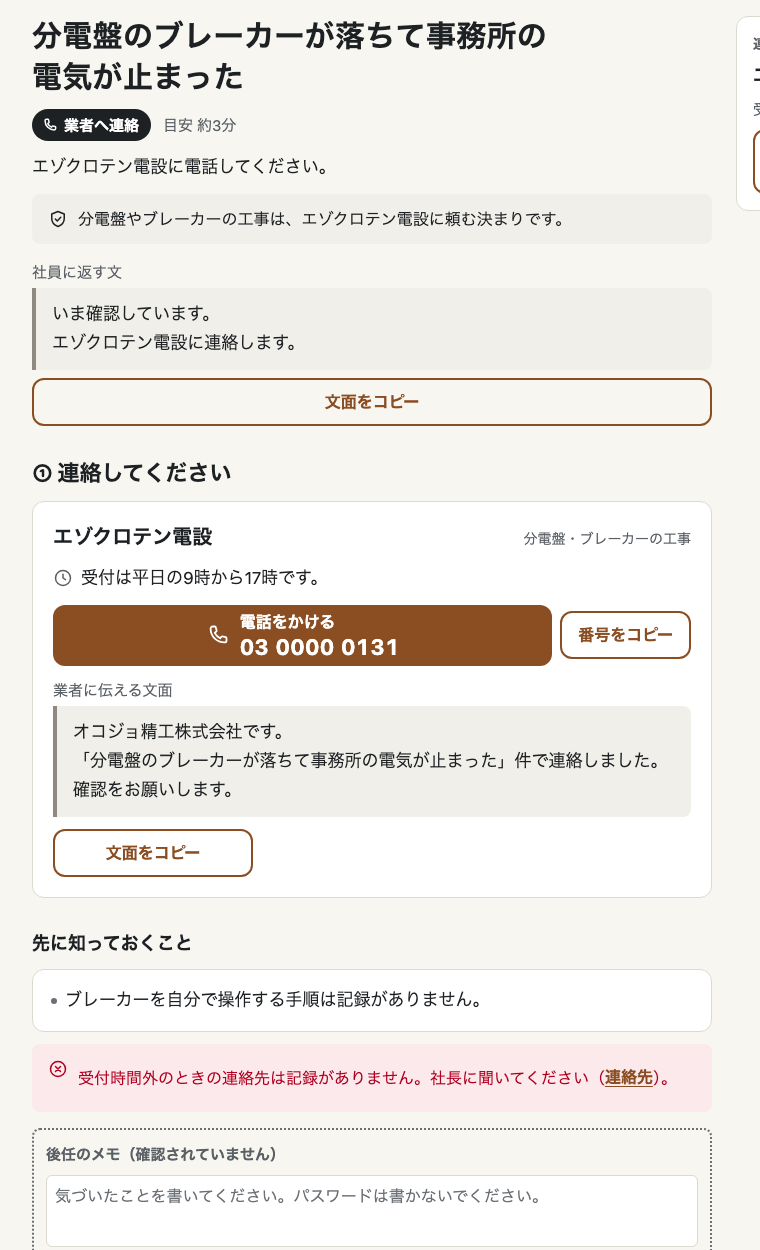
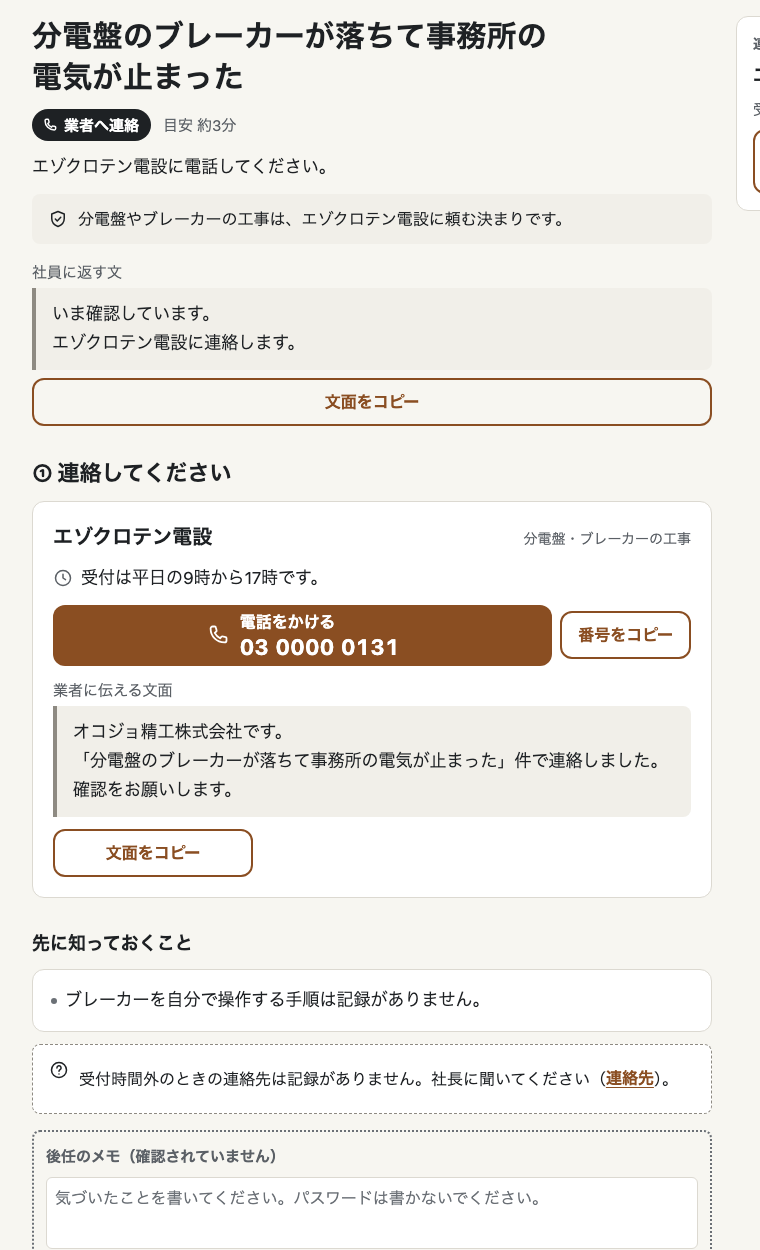
「記録がありません」を注意として読める見た目にし、「挿す」の表記を画面で「差す」にそろえる（holdout の前の最後の製品の変更）
本人の決定（公開前の採点で残った指摘のうち 2 つ）：
- 「記録がありません」の帯・注・電話番号の記録なしは、赤い × ではなく、ふつうの文字色、点線の枠、？ の記号（band-norecord）。文は変えない。PC 用とスマホ用。撮影の検査の色の決まりに足し、例外の帯と記録なしの帯は出ているページで確かめる
- 「挿す」「挿し直す」などの動詞は、画面に出すとき（forDisplay）に「差す」にそろえる。記録（manual.json）の文、手順部品、名詞（挿入）は変えない。絵の矢印の向きと文字も同じ。手順部品に「挿」はなかった
- 保存した 3 社の出力、サンプル、更新の通しの出力を API なしで描き直し、撮影の検査を通した（キノドテン建設は、見本の形の条件の 2 種類が、直す前と同じく満たせない）。README の画像を出し直した
- holdout の数と件数だけを取り出す道具（eval/holdout-report.mjs）を足す

Claude-Session: https://claude.ai/code/session_01RiFc1jbirUEDMBzWsSjnse

diff --git a/samples/okojo/manual.html b/samples/okojo/manual.html
@@ -870,6 +870,11 @@ background: var(--warn-bg);
 color: var(--danger-fg);
 background: var(--danger-bg);
 }
+.band-norecord {
+color: var(--ink);
+background: var(--card);
+border: 1.5px dashed var(--line-strong);
+}
 .first {
 padding: 20px;
 background: var(--card);
@@ -2371,7 +2376,7 @@ content: "";
 <li class="step"><label class="tap"><input type="checkbox" data-check="T2:STM-111"><span class="step-n">3</span><span class="step-body is-short">「PC」の画面で、会社の情報の表の<span class="nb">ドライブ</span>の帯<span class="nb">グラフ</span>を見てください。</span><span class="step-box"><svg class="icon" role="presentation"><use href="#i-check"/></svg></span></label></li>
 </ol>
 <p class="band band-exception"><svg class="icon" role="presentation"><use href="#i-cross"/></svg><span>帯が赤ければ、空きがほとんどありません。</span></p>
-<p class="band band-exception"><svg class="icon" role="presentation"><use href="#i-cross"/></svg><span>空きがほとんどないときの対応は記録がありません。工場の <span class="nb">CAD</span> 担当者に聞いてください（<a class="tap text-link" href="#tab-contacts">連絡先</a>）。</span></p>
+<p class="band band-norecord"><svg class="icon" role="presentation"><use href="#i-help"/></svg><span>空きがほとんどないときの対応は記録がありません。工場の <span class="nb">CAD</span> 担当者に聞いてください（<a class="tap text-link" href="#tab-contacts">連絡先</a>）。</span></p>
 <button type="button" class="tap js-only btn-reset" data-reset>チェックをすべて外す</button>
 </div>
 <div class="part part-contact">
@@ -2501,7 +2506,7 @@ content: "";
 <h2 class="symptom-title" tabindex="-1">工場の Wi-Fi が切れる</h2>
 <div class="verdict"><span class="badge" data-badge="self" title="自分で直せる"><svg class="icon" role="presentation"><use href="#i-check"/></svg><span class="badge-text">自分で直せる</span></span><span class="eta">目安 約3分</span></div>
 <p class="verdict-text">工場の <span class="nb">AP</span> を再起動して、自分で直します。</p>
-<p class="band band-safe"><svg class="icon" role="presentation"><use href="#i-shield"/></svg><span>電源<span class="nb">アダプター</span>を抜いて挿し直すだけの再起動で、後任が自分でやってよい作業です。</span></p>
+<p class="band band-safe"><svg class="icon" role="presentation"><use href="#i-shield"/></svg><span>電源<span class="nb">アダプター</span>を抜いて差し直すだけの再起動で、後任が自分でやってよい作業です。</span></p>
 <section class="first">
 <h3 class="first-kicker">① まずこれだけ <span class="eta">1分</span></h3>
 <div class="first-steps is-many">
@@ -2523,7 +2528,7 @@ content: "";
 <li>工場の Wi-Fi が切れるのは、夏の熱で工場の <span class="nb">AP</span> が止まることが多いです。</li>
 <li>工場の <span class="nb">AP</span> は、工場の入口に近い柱の上にあります。</li>
 </ul></div>
-<p class="band band-exception"><svg class="icon" role="presentation"><use href="#i-cross"/></svg><span><span class="nb">AP</span> を再起動しても工場の Wi-Fi が切れるときの対応は、記録がありません。工場の <span class="nb">CAD</span> 担当者に聞いてください（<a class="tap text-link" href="#tab-contacts">連絡先</a>）。</span></p>
+<p class="band band-norecord"><svg class="icon" role="presentation"><use href="#i-help"/></svg><span><span class="nb">AP</span> を再起動しても工場の Wi-Fi が切れるときの対応は、記録がありません。工場の <span class="nb">CAD</span> 担当者に聞いてください（<a class="tap text-link" href="#tab-contacts">連絡先</a>）。</span></p>
 <p class="tab-link"><a class="tap text-link" href="#tab-contacts">連絡先の一覧を見る</a></p>
 <div class="memo is-empty" data-memo="T4" data-memo-name="工場の Wi-Fi が切れる"></div>
 <p class="memo-nojs">メモは PC 版で書けます</p>
@@ -2625,7 +2630,7 @@ content: "";
 <ol class="steps" role="list">
 <li class="step"><label class="tap"><input type="checkbox" data-check="T6:STM-152"><span class="step-n">1</span><span class="step-body is-short"><span class="nb">カワウソシステムサービス</span>に、古い<span class="nb">世代</span>の削除を<span class="nb">スポット</span>（有償）で依頼してください。</span><span class="step-box"><svg class="icon" role="presentation"><use href="#i-check"/></svg></span></label><p class="step-terms"><a class="tap" href="#g-T6-21">システムとは？</a><a class="tap" href="#g-T6-7">世代とは？</a></p></li>
 </ol>
-<p class="band band-exception"><svg class="icon" role="presentation"><use href="#i-cross"/></svg><span>本文に容量不足以外の理由が書かれていたら、記録がありません。総務課に聞いてください（<a class="tap text-link" href="#tab-contacts">連絡先</a>）。</span></p>
+<p class="band band-norecord"><svg class="icon" role="presentation"><use href="#i-help"/></svg><span>本文に容量不足以外の理由が書かれていたら、記録がありません。総務課に聞いてください（<a class="tap text-link" href="#tab-contacts">連絡先</a>）。</span></p>
 <button type="button" class="tap js-only btn-reset" data-reset>チェックをすべて外す</button>
 </div>
 <div class="part part-contact">
@@ -2702,7 +2707,7 @@ content: "";
 <li class="step"><label class="tap"><input type="checkbox" data-check="T7:STM-162"><span class="step-n">1</span><span class="step-body is-short">総務課と社長に、すぐ連絡してください。</span><span class="step-box"><svg class="icon" role="presentation"><use href="#i-check"/></svg></span></label></li>
 </ol>
 <p class="goal"><svg class="icon" role="presentation"><use href="#i-check"/></svg><span>画面の右下の<span class="nb">ネットワーク</span>の<span class="nb">マーク</span>に×が付けば、切れています。</span></p>
-<p class="band band-exception"><svg class="icon" role="presentation"><use href="#i-cross"/></svg><span>社員から不審な<span class="nb">メール</span>を知らされたあとの対応は記録がありません。総務課に聞いてください（<a class="tap text-link" href="#tab-contacts">連絡先</a>）。</span></p>
+<p class="band band-norecord"><svg class="icon" role="presentation"><use href="#i-help"/></svg><span>社員から不審な<span class="nb">メール</span>を知らされたあとの対応は記録がありません。総務課に聞いてください（<a class="tap text-link" href="#tab-contacts">連絡先</a>）。</span></p>
 <button type="button" class="tap js-only btn-reset" data-reset>チェックをすべて外す</button>
 </div>
 <div class="part part-contact">
@@ -2883,7 +2888,7 @@ content: "";
 </ol>
 <p class="goal"><svg class="icon" role="presentation"><use href="#i-check"/></svg><span>総務の PC で共有<span class="nb">フォルダ</span>が開ければ、戻っています。</span></p>
 <p class="band band-exception"><svg class="icon" role="presentation"><use href="#i-cross"/></svg><span><span class="nb">サーバー</span>が動かないときは、<span class="nb">イイズナソフト</span>に連絡してください。</span></p>
-<p class="band band-exception"><svg class="icon" role="presentation"><use href="#i-cross"/></svg><span><span class="nb">NAS</span> が動かないときの対応は記録がありません。社長に聞いてください（<a class="tap text-link" href="#tab-contacts">連絡先</a>）。</span></p>
+<p class="band band-norecord"><svg class="icon" role="presentation"><use href="#i-help"/></svg><span><span class="nb">NAS</span> が動かないときの対応は記録がありません。社長に聞いてください（<a class="tap text-link" href="#tab-contacts">連絡先</a>）。</span></p>
 <button type="button" class="tap js-only btn-reset" data-reset>チェックをすべて外す</button>
 </div>
 <div class="part part-contact">

diff --git a/samples/okojo/phone/01 自分で直せる 工場の Wi-Fi が切れる.html b/samples/okojo/phone/01 自分で直せる 工場の Wi-Fi が切れる.html
@@ -107,6 +107,8 @@ h3 { margin-top: var(--s4); font-size: 17px; }
 .step-figure { display: block; width: 100%; max-width: 320px; height: auto; margin-top: var(--s2); color: var(--ink); }
 .goal { margin-top: var(--s3); padding: var(--s2) var(--s3); color: var(--ok-fg); background: var(--ok-bg); border-radius: 8px; }
 .band { margin-top: var(--s3); padding: var(--s2) var(--s3); background: var(--card-2); border-radius: 8px; }
+.band-norecord { display: flex; gap: var(--s2); background: var(--card); border: 1.5px dashed var(--line-strong); }
+.band-norecord svg { flex: none; width: 20px; height: 20px; margin-top: 4px; fill: none; stroke: currentColor; stroke-width: 2; stroke-linecap: round; stroke-linejoin: round; }
 .notes, .phone-steps { padding-left: 1.5em; }
 .notes li, .phone-steps li { margin-top: var(--s2); }
 .step-note { font-size: 15px; color: var(--ink-2); }
@@ -122,7 +124,7 @@ code, kbd { font-family: ui-monospace, monospace; font-size: .95em; }
 .tel > span + span { margin-left: .3em; }
 .num { margin-top: var(--s2); font-size: 22px; font-weight: 700; line-height: 1.3; letter-spacing: .02em; }
 .note { margin-top: var(--s1); font-size: 15px; color: var(--ink-2); }
-.no-phone { margin-top: var(--s2); font-weight: 700; color: var(--danger-fg); }
+.no-phone { font-weight: 700; }
 .label { margin-top: var(--s3); font-size: 15px; font-weight: 700; }
 .contact-hours { display: flex; gap: var(--s2); align-items: flex-start; }
 .contact-hours svg { flex: none; width: 20px; height: 20px; margin-top: 4px; fill: none; stroke: currentColor; stroke-width: 2; stroke-linecap: round; stroke-linejoin: round; color: var(--ink-2); }
@@ -139,7 +141,7 @@ code, kbd { font-family: ui-monospace, monospace; font-size: .95em; }
 <h1>工場の Wi-Fi が切れる</h1>
 <p class="verdict"><span class="badge" data-badge="self"><svg viewBox="0 0 24 24" role="presentation"><path d="M5 12.5l4.5 4.5L19 7.5"/></svg><span>自分で直せる</span></span><span>目安 約3分</span></p>
 <p class="verdict-text">工場の <span class="nb">AP</span> を再起動して、自分で直します。</p>
-<p class="safe">電源<span class="nb">アダプター</span>を抜いて挿し直すだけの再起動で、後任が自分でやってよい作業です。</p>
+<p class="safe">電源<span class="nb">アダプター</span>を抜いて差し直すだけの再起動で、後任が自分でやってよい作業です。</p>
 <section class="part first">
 <h2>① まずこれだけ</h2>
 <p class="first-body">工場の入口に近い柱の上にある <span class="nb">AP</span> の、電源<span class="nb">アダプター</span>を抜いてください。<svg class="step-figure" viewBox="0 0 344 140" fill="none" stroke="currentColor" stroke-width="2" role="img" aria-label="工場の入口に近い柱の上にある AP の、電源アダプターを抜いてください。の図"><g transform="translate(10 6)"><rect x="12" y="52" width="76" height="30" rx="6"/><path d="M30 52L24 20M70 52L76 20"/><path d="M26 67H32M40 67H46M54 67H60" stroke-width="3" stroke-linecap="round"/></g><text x="60" y="128" font-size="14" font-weight="700" fill="currentColor" stroke="none" text-anchor="middle">AP</text><g transform="translate(146 6)"><rect x="24" y="36" width="30" height="28" rx="6"/><rect x="8" y="41" width="16" height="5" rx="1" fill="currentColor"/><rect x="8" y="54" width="16" height="5" rx="1" fill="currentColor"/><path d="M54 50C72 50 70 78 92 78"/></g><text x="196" y="128" font-size="14" font-weight="700" fill="currentColor" stroke="none" text-anchor="middle">電源アダプター</text><g transform="translate(254 6) scale(0.8 1)"><path d="M12 50H82M66 34L84 50L66 66" stroke-width="4" stroke-linecap="round" stroke-linejoin="round" style="stroke:var(--accent)"/></g><text x="294" y="128" font-size="14" font-weight="700" fill="currentColor" stroke="none" text-anchor="middle">抜く</text></svg></p>
@@ -160,7 +162,7 @@ code, kbd { font-family: ui-monospace, monospace; font-size: .95em; }
 <li>工場の <span class="nb">AP</span> は、工場の入口に近い柱の上にあります。</li>
 </ul>
 </section>
-<p class="band"><span class="nb">AP</span> を再起動しても工場の Wi-Fi が切れるときの対応は、記録がありません。工場の <span class="nb">CAD</span> 担当者に聞いてください（連絡先）。</p>
+<p class="band band-norecord"><svg viewBox="0 0 24 24" role="presentation"><circle cx="12" cy="12" r="9"/><path d="M9.5 9.5a2.5 2.5 0 1 1 3.6 2.2c-.8.4-1.1 1-1.1 1.8M12 16.8v.01"/></svg><span><span class="nb">AP</span> を再起動しても工場の Wi-Fi が切れるときの対応は、記録がありません。工場の <span class="nb">CAD</span> 担当者に聞いてください（連絡先）。</span></p>
 <section class="part">
 <h2>連絡先</h2>
 <p>連絡先は、フォルダの中の「00 連絡先」を開いてください。</p>

diff --git a/samples/okojo/phone/08 社内で相談 不審なメールが届いた・感染や情報漏えいが疑われる.html b/samples/okojo/phone/08 社内で相談 不審なメールが届いた・感染や情報漏えいが疑われる.html
@@ -107,6 +107,8 @@ h3 { margin-top: var(--s4); font-size: 17px; }
 .step-figure { display: block; width: 100%; max-width: 320px; height: auto; margin-top: var(--s2); color: var(--ink); }
 .goal { margin-top: var(--s3); padding: var(--s2) var(--s3); color: var(--ok-fg); background: var(--ok-bg); border-radius: 8px; }
 .band { margin-top: var(--s3); padding: var(--s2) var(--s3); background: var(--card-2); border-radius: 8px; }
+.band-norecord { display: flex; gap: var(--s2); background: var(--card); border: 1.5px dashed var(--line-strong); }
+.band-norecord svg { flex: none; width: 20px; height: 20px; margin-top: 4px; fill: none; stroke: currentColor; stroke-width: 2; stroke-linecap: round; stroke-linejoin: round; }
 .notes, .phone-steps { padding-left: 1.5em; }
 .notes li, .phone-steps li { margin-top: var(--s2); }
 .step-note { font-size: 15px; color: var(--ink-2); }
@@ -122,7 +124,7 @@ code, kbd { font-family: ui-monospace, monospace; font-size: .95em; }
 .tel > span + span { margin-left: .3em; }
 .num { margin-top: var(--s2); font-size: 22px; font-weight: 700; line-height: 1.3; letter-spacing: .02em; }
 .note { margin-top: var(--s1); font-size: 15px; color: var(--ink-2); }
-.no-phone { margin-top: var(--s2); font-weight: 700; color: var(--danger-fg); }
+.no-phone { font-weight: 700; }
 .label { margin-top: var(--s3); font-size: 15px; font-weight: 700; }
 .contact-hours { display: flex; gap: var(--s2); align-items: flex-start; }
 .contact-hours svg { flex: none; width: 20px; height: 20px; margin-top: 4px; fill: none; stroke: currentColor; stroke-width: 2; stroke-linecap: round; stroke-linejoin: round; color: var(--ink-2); }
@@ -166,7 +168,7 @@ code, kbd { font-family: ui-monospace, monospace; font-size: .95em; }
 <li>総務課と社長に、すぐ連絡してください。</li>
 </ol>
 <p class="goal">画面の右下の<span class="nb">ネットワーク</span>の<span class="nb">マーク</span>に×が付けば、切れています。</p>
-<p class="band">社員から不審な<span class="nb">メール</span>を知らされたあとの対応は記録がありません。総務課に聞いてください（連絡先）。</p>
+<p class="band band-norecord"><svg viewBox="0 0 24 24" role="presentation"><circle cx="12" cy="12" r="9"/><path d="M9.5 9.5a2.5 2.5 0 1 1 3.6 2.2c-.8.4-1.1 1-1.1 1.8M12 16.8v.01"/></svg><span>社員から不審な<span class="nb">メール</span>を知らされたあとの対応は記録がありません。総務課に聞いてください（連絡先）。</span></p>
 </section>
 <section class="part">
 <h2>③ それでもだめなら</h2>

diff --git a/samples/okojo/phone/12 自分で直せる 停電のあと NAS やサーバーが動かない.html b/samples/okojo/phone/12 自分で直せる 停電のあと NAS やサーバーが動かない.html
@@ -107,6 +107,8 @@ h3 { margin-top: var(--s4); font-size: 17px; }
 .step-figure { display: block; width: 100%; max-width: 320px; height: auto; margin-top: var(--s2); color: var(--ink); }
 .goal { margin-top: var(--s3); padding: var(--s2) var(--s3); color: var(--ok-fg); background: var(--ok-bg); border-radius: 8px; }
 .band { margin-top: var(--s3); padding: var(--s2) var(--s3); background: var(--card-2); border-radius: 8px; }
+.band-norecord { display: flex; gap: var(--s2); background: var(--card); border: 1.5px dashed var(--line-strong); }
+.band-norecord svg { flex: none; width: 20px; height: 20px; margin-top: 4px; fill: none; stroke: currentColor; stroke-width: 2; stroke-linecap: round; stroke-linejoin: round; }
 .notes, .phone-steps { padding-left: 1.5em; }
 .notes li, .phone-steps li { margin-top: var(--s2); }
 .step-note { font-size: 15px; color: var(--ink-2); }
@@ -122,7 +124,7 @@ code, kbd { font-family: ui-monospace, monospace; font-size: .95em; }
 .tel > span + span { margin-left: .3em; }
 .num { margin-top: var(--s2); font-size: 22px; font-weight: 700; line-height: 1.3; letter-spacing: .02em; }
 .note { margin-top: var(--s1); font-size: 15px; color: var(--ink-2); }
-.no-phone { margin-top: var(--s2); font-weight: 700; color: var(--danger-fg); }
+.no-phone { font-weight: 700; }
 .label { margin-top: var(--s3); font-size: 15px; font-weight: 700; }
 .contact-hours { display: flex; gap: var(--s2); align-items: flex-start; }
 .contact-hours svg { flex: none; width: 20px; height: 20px; margin-top: 4px; fill: none; stroke: currentColor; stroke-width: 2; stroke-linecap: round; stroke-linejoin: round; color: var(--ink-2); }
@@ -165,7 +167,7 @@ code, kbd { font-family: ui-monospace, monospace; font-size: .95em; }
 </ol>
 <p class="goal">総務の PC で共有<span class="nb">フォルダ</span>が開ければ、戻っています。</p>
 <p class="band"><span class="nb">サーバー</span>が動かないときは、<span class="nb">イイズナソフト</span>に連絡してください。</p>
-<p class="band"><span class="nb">NAS</span> が動かないときの対応は記録がありません。社長に聞いてください（連絡先）。</p>
+<p class="band band-norecord"><svg viewBox="0 0 24 24" role="presentation"><circle cx="12" cy="12" r="9"/><path d="M9.5 9.5a2.5 2.5 0 1 1 3.6 2.2c-.8.4-1.1 1-1.1 1.8M12 16.8v.01"/></svg><span><span class="nb">NAS</span> が動かないときの対応は記録がありません。社長に聞いてください（連絡先）。</span></p>
 </section>
 <section class="part">
 <h2>② それでもだめなら</h2>

diff --git a/samples/okojo/phone/11 確認してから バックアップが失敗した（結果メールの件名に「失敗」）.html b/samples/okojo/phone/11 確認してから バックアップが失敗した（結果メールの件名に「失敗」）.html
@@ -107,6 +107,8 @@ h3 { margin-top: var(--s4); font-size: 17px; }
 .step-figure { display: block; width: 100%; max-width: 320px; height: auto; margin-top: var(--s2); color: var(--ink); }
 .goal { margin-top: var(--s3); padding: var(--s2) var(--s3); color: var(--ok-fg); background: var(--ok-bg); border-radius: 8px; }
 .band { margin-top: var(--s3); padding: var(--s2) var(--s3); background: var(--card-2); border-radius: 8px; }
+.band-norecord { display: flex; gap: var(--s2); background: var(--card); border: 1.5px dashed var(--line-strong); }
+.band-norecord svg { flex: none; width: 20px; height: 20px; margin-top: 4px; fill: none; stroke: currentColor; stroke-width: 2; stroke-linecap: round; stroke-linejoin: round; }
 .notes, .phone-steps { padding-left: 1.5em; }
 .notes li, .phone-steps li { margin-top: var(--s2); }
 .step-note { font-size: 15px; color: var(--ink-2); }
@@ -122,7 +124,7 @@ code, kbd { font-family: ui-monospace, monospace; font-size: .95em; }
 .tel > span + span { margin-left: .3em; }
 .num { margin-top: var(--s2); font-size: 22px; font-weight: 700; line-height: 1.3; letter-spacing: .02em; }
 .note { margin-top: var(--s1); font-size: 15px; color: var(--ink-2); }
-.no-phone { margin-top: var(--s2); font-weight: 700; color: var(--danger-fg); }
+.no-phone { font-weight: 700; }
 .label { margin-top: var(--s3); font-size: 15px; font-weight: 700; }
 .contact-hours { display: flex; gap: var(--s2); align-items: flex-start; }
 .contact-hours svg { flex: none; width: 20px; height: 20px; margin-top: 4px; fill: none; stroke: currentColor; stroke-width: 2; stroke-linecap: round; stroke-linejoin: round; color: var(--ink-2); }
@@ -164,7 +166,7 @@ code, kbd { font-family: ui-monospace, monospace; font-size: .95em; }
 <li><span class="nb">カワウソシステムサービス</span>に、古い<span class="nb">世代</span>の削除を<span class="nb">スポット</span>（有償）で依頼してください。</li>
 </ol>
 
-<p class="band">本文に容量不足以外の理由が書かれていたら、記録がありません。総務課に聞いてください（連絡先）。</p>
+<p class="band band-norecord"><svg viewBox="0 0 24 24" role="presentation"><circle cx="12" cy="12" r="9"/><path d="M9.5 9.5a2.5 2.5 0 1 1 3.6 2.2c-.8.4-1.1 1-1.1 1.8M12 16.8v.01"/></svg><span>本文に容量不足以外の理由が書かれていたら、記録がありません。総務課に聞いてください（連絡先）。</span></p>
 </section>
 <section class="part">
 <h2>③ それでもだめなら</h2>

diff --git a/samples/okojo/phone/03 確認してから スキャンが届かない.html b/samples/okojo/phone/03 確認してから スキャンが届かない.html
@@ -107,6 +107,8 @@ h3 { margin-top: var(--s4); font-size: 17px; }
 .step-figure { display: block; width: 100%; max-width: 320px; height: auto; margin-top: var(--s2); color: var(--ink); }
 .goal { margin-top: var(--s3); padding: var(--s2) var(--s3); color: var(--ok-fg); background: var(--ok-bg); border-radius: 8px; }
 .band { margin-top: var(--s3); padding: var(--s2) var(--s3); background: var(--card-2); border-radius: 8px; }
+.band-norecord { display: flex; gap: var(--s2); background: var(--card); border: 1.5px dashed var(--line-strong); }
+.band-norecord svg { flex: none; width: 20px; height: 20px; margin-top: 4px; fill: none; stroke: currentColor; stroke-width: 2; stroke-linecap: round; stroke-linejoin: round; }
 .notes, .phone-steps { padding-left: 1.5em; }
 .notes li, .phone-steps li { margin-top: var(--s2); }
 .step-note { font-size: 15px; color: var(--ink-2); }
@@ -122,7 +124,7 @@ code, kbd { font-family: ui-monospace, monospace; font-size: .95em; }
 .tel > span + span { margin-left: .3em; }
 .num { margin-top: var(--s2); font-size: 22px; font-weight: 700; line-height: 1.3; letter-spacing: .02em; }
 .note { margin-top: var(--s1); font-size: 15px; color: var(--ink-2); }
-.no-phone { margin-top: var(--s2); font-weight: 700; color: var(--danger-fg); }
+.no-phone { font-weight: 700; }
 .label { margin-top: var(--s3); font-size: 15px; font-weight: 700; }
 .contact-hours { display: flex; gap: var(--s2); align-items: flex-start; }
 .contact-hours svg { flex: none; width: 20px; height: 20px; margin-top: 4px; fill: none; stroke: currentColor; stroke-width: 2; stroke-linecap: round; stroke-linejoin: round; color: var(--ink-2); }
@@ -171,7 +173,7 @@ code, kbd { font-family: ui-monospace, monospace; font-size: .95em; }
 </ol>
 
 <p class="band">帯が赤ければ、空きがほとんどありません。</p>
-<p class="band">空きがほとんどないときの対応は記録がありません。工場の <span class="nb">CAD</span> 担当者に聞いてください（連絡先）。</p>
+<p class="band band-norecord"><svg viewBox="0 0 24 24" role="presentation"><circle cx="12" cy="12" r="9"/><path d="M9.5 9.5a2.5 2.5 0 1 1 3.6 2.2c-.8.4-1.1 1-1.1 1.8M12 16.8v.01"/></svg><span>空きがほとんどないときの対応は記録がありません。工場の <span class="nb">CAD</span> 担当者に聞いてください（連絡先）。</span></p>
 </section>
 <section class="part">
 <h2>② それでもだめなら</h2>

diff --git a/samples/okojo/phone/00 連絡先.html b/samples/okojo/phone/00 連絡先.html
@@ -107,6 +107,8 @@ h3 { margin-top: var(--s4); font-size: 17px; }
 .step-figure { display: block; width: 100%; max-width: 320px; height: auto; margin-top: var(--s2); color: var(--ink); }
 .goal { margin-top: var(--s3); padding: var(--s2) var(--s3); color: var(--ok-fg); background: var(--ok-bg); border-radius: 8px; }
 .band { margin-top: var(--s3); padding: var(--s2) var(--s3); background: var(--card-2); border-radius: 8px; }
+.band-norecord { display: flex; gap: var(--s2); background: var(--card); border: 1.5px dashed var(--line-strong); }
+.band-norecord svg { flex: none; width: 20px; height: 20px; margin-top: 4px; fill: none; stroke: currentColor; stroke-width: 2; stroke-linecap: round; stroke-linejoin: round; }
 .notes, .phone-steps { padding-left: 1.5em; }
 .notes li, .phone-steps li { margin-top: var(--s2); }
 .step-note { font-size: 15px; color: var(--ink-2); }
@@ -122,7 +124,7 @@ code, kbd { font-family: ui-monospace, monospace; font-size: .95em; }
 .tel > span + span { margin-left: .3em; }
 .num { margin-top: var(--s2); font-size: 22px; font-weight: 700; line-height: 1.3; letter-spacing: .02em; }
 .note { margin-top: var(--s1); font-size: 15px; color: var(--ink-2); }
-.no-phone { margin-top: var(--s2); font-weight: 700; color: var(--danger-fg); }
+.no-phone { font-weight: 700; }
 .label { margin-top: var(--s3); font-size: 15px; font-weight: 700; }
 .contact-hours { display: flex; gap: var(--s2); align-items: flex-start; }
 .contact-hours svg { flex: none; width: 20px; height: 20px; margin-top: 4px; fill: none; stroke: currentColor; stroke-width: 2; stroke-linecap: round; stroke-linejoin: round; color: var(--ink-2); }

diff --git a/samples/okojo/phone/02 業者へ連絡 全社でネットがつながらない.html b/samples/okojo/phone/02 業者へ連絡 全社でネットがつながらない.html
@@ -107,6 +107,8 @@ h3 { margin-top: var(--s4); font-size: 17px; }
 .step-figure { display: block; width: 100%; max-width: 320px; height: auto; margin-top: var(--s2); color: var(--ink); }
 .goal { margin-top: var(--s3); padding: var(--s2) var(--s3); color: var(--ok-fg); background: var(--ok-bg); border-radius: 8px; }
 .band { margin-top: var(--s3); padding: var(--s2) var(--s3); background: var(--card-2); border-radius: 8px; }
+.band-norecord { display: flex; gap: var(--s2); background: var(--card); border: 1.5px dashed var(--line-strong); }
+.band-norecord svg { flex: none; width: 20px; height: 20px; margin-top: 4px; fill: none; stroke: currentColor; stroke-width: 2; stroke-linecap: round; stroke-linejoin: round; }
 .notes, .phone-steps { padding-left: 1.5em; }
 .notes li, .phone-steps li { margin-top: var(--s2); }
 .step-note { font-size: 15px; color: var(--ink-2); }
@@ -122,7 +124,7 @@ code, kbd { font-family: ui-monospace, monospace; font-size: .95em; }
 .tel > span + span { margin-left: .3em; }
 .num { margin-top: var(--s2); font-size: 22px; font-weight: 700; line-height: 1.3; letter-spacing: .02em; }
 .note { margin-top: var(--s1); font-size: 15px; color: var(--ink-2); }
-.no-phone { margin-top: var(--s2); font-weight: 700; color: var(--danger-fg); }
+.no-phone { font-weight: 700; }
 .label { margin-top: var(--s3); font-size: 15px; font-weight: 700; }
 .contact-hours { display: flex; gap: var(--s2); align-items: flex-start; }
 .contact-hours svg { flex: none; width: 20px; height: 20px; margin-top: 4px; fill: none; stroke: currentColor; stroke-width: 2; stroke-linecap: round; stroke-linejoin: round; color: var(--ink-2); }

diff --git a/samples/okojo/phone/04 自分で直せる 印刷できない.html b/samples/okojo/phone/04 自分で直せる 印刷できない.html
@@ -107,6 +107,8 @@ h3 { margin-top: var(--s4); font-size: 17px; }
 .step-figure { display: block; width: 100%; max-width: 320px; height: auto; margin-top: var(--s2); color: var(--ink); }
 .goal { margin-top: var(--s3); padding: var(--s2) var(--s3); color: var(--ok-fg); background: var(--ok-bg); border-radius: 8px; }
 .band { margin-top: var(--s3); padding: var(--s2) var(--s3); background: var(--card-2); border-radius: 8px; }
+.band-norecord { display: flex; gap: var(--s2); background: var(--card); border: 1.5px dashed var(--line-strong); }
+.band-norecord svg { flex: none; width: 20px; height: 20px; margin-top: 4px; fill: none; stroke: currentColor; stroke-width: 2; stroke-linecap: round; stroke-linejoin: round; }
 .notes, .phone-steps { padding-left: 1.5em; }
 .notes li, .phone-steps li { margin-top: var(--s2); }
 .step-note { font-size: 15px; color: var(--ink-2); }
@@ -122,7 +124,7 @@ code, kbd { font-family: ui-monospace, monospace; font-size: .95em; }
 .tel > span + span { margin-left: .3em; }
 .num { margin-top: var(--s2); font-size: 22px; font-weight: 700; line-height: 1.3; letter-spacing: .02em; }
 .note { margin-top: var(--s1); font-size: 15px; color: var(--ink-2); }
-.no-phone { margin-top: var(--s2); font-weight: 700; color: var(--danger-fg); }
+.no-phone { font-weight: 700; }
 .label { margin-top: var(--s3); font-size: 15px; font-weight: 700; }
 .contact-hours { display: flex; gap: var(--s2); align-items: flex-start; }
 .contact-hours svg { flex: none; width: 20px; height: 20px; margin-top: 4px; fill: none; stroke: currentColor; stroke-width: 2; stroke-linecap: round; stroke-linejoin: round; color: var(--ink-2); }

diff --git a/samples/okojo/phone/05 自分で直せる 共有フォルダが見えない.html b/samples/okojo/phone/05 自分で直せる 共有フォルダが見えない.html
@@ -107,6 +107,8 @@ h3 { margin-top: var(--s4); font-size: 17px; }
 .step-figure { display: block; width: 100%; max-width: 320px; height: auto; margin-top: var(--s2); color: var(--ink); }
 .goal { margin-top: var(--s3); padding: var(--s2) var(--s3); color: var(--ok-fg); background: var(--ok-bg); border-radius: 8px; }
 .band { margin-top: var(--s3); padding: var(--s2) var(--s3); background: var(--card-2); border-radius: 8px; }
+.band-norecord { display: flex; gap: var(--s2); background: var(--card); border: 1.5px dashed var(--line-strong); }
+.band-norecord svg { flex: none; width: 20px; height: 20px; margin-top: 4px; fill: none; stroke: currentColor; stroke-width: 2; stroke-linecap: round; stroke-linejoin: round; }
 .notes, .phone-steps { padding-left: 1.5em; }
 .notes li, .phone-steps li { margin-top: var(--s2); }
 .step-note { font-size: 15px; color: var(--ink-2); }
@@ -122,7 +124,7 @@ code, kbd { font-family: ui-monospace, monospace; font-size: .95em; }
 .tel > span + span { margin-left: .3em; }
 .num { margin-top: var(--s2); font-size: 22px; font-weight: 700; line-height: 1.3; letter-spacing: .02em; }
 .note { margin-top: var(--s1); font-size: 15px; color: var(--ink-2); }
-.no-phone { margin-top: var(--s2); font-weight: 700; color: var(--danger-fg); }
+.no-phone { font-weight: 700; }
 .label { margin-top: var(--s3); font-size: 15px; font-weight: 700; }
 .contact-hours { display: flex; gap: var(--s2); align-items: flex-start; }
 .contact-hours svg { flex: none; width: 20px; height: 20px; margin-top: 4px; fill: none; stroke: currentColor; stroke-width: 2; stroke-linecap: round; stroke-linejoin: round; color: var(--ink-2); }

diff --git a/samples/okojo/phone/06 業者へ連絡 共有フォルダのファイルを消した・上書きした.html b/samples/okojo/phone/06 業者へ連絡 共有フォルダのファイルを消した・上書きした.html
@@ -107,6 +107,8 @@ h3 { margin-top: var(--s4); font-size: 17px; }
 .step-figure { display: block; width: 100%; max-width: 320px; height: auto; margin-top: var(--s2); color: var(--ink); }
 .goal { margin-top: var(--s3); padding: var(--s2) var(--s3); color: var(--ok-fg); background: var(--ok-bg); border-radius: 8px; }
 .band { margin-top: var(--s3); padding: var(--s2) var(--s3); background: var(--card-2); border-radius: 8px; }
+.band-norecord { display: flex; gap: var(--s2); background: var(--card); border: 1.5px dashed var(--line-strong); }
+.band-norecord svg { flex: none; width: 20px; height: 20px; margin-top: 4px; fill: none; stroke: currentColor; stroke-width: 2; stroke-linecap: round; stroke-linejoin: round; }
 .notes, .phone-steps { padding-left: 1.5em; }
 .notes li, .phone-steps li { margin-top: var(--s2); }
 .step-note { font-size: 15px; color: var(--ink-2); }
@@ -122,7 +124,7 @@ code, kbd { font-family: ui-monospace, monospace; font-size: .95em; }
 .tel > span + span { margin-left: .3em; }
 .num { margin-top: var(--s2); font-size: 22px; font-weight: 700; line-height: 1.3; letter-spacing: .02em; }
 .note { margin-top: var(--s1); font-size: 15px; color: var(--ink-2); }
-.no-phone { margin-top: var(--s2); font-weight: 700; color: var(--danger-fg); }
+.no-phone { font-weight: 700; }
 .label { margin-top: var(--s3); font-size: 15px; font-weight: 700; }
 .contact-hours { display: flex; gap: var(--s2); align-items: flex-start; }
 .contact-hours svg { flex: none; width: 20px; height: 20px; margin-top: 4px; fill: none; stroke: currentColor; stroke-width: 2; stroke-linecap: round; stroke-linejoin: round; color: var(--ink-2); }

diff --git a/samples/okojo/phone/07 社内で相談 NAS のディスクを交換する必要がある.html b/samples/okojo/phone/07 社内で相談 NAS のディスクを交換する必要がある.html
@@ -107,6 +107,8 @@ h3 { margin-top: var(--s4); font-size: 17px; }
 .step-figure { display: block; width: 100%; max-width: 320px; height: auto; margin-top: var(--s2); color: var(--ink); }
 .goal { margin-top: var(--s3); padding: var(--s2) var(--s3); color: var(--ok-fg); background: var(--ok-bg); border-radius: 8px; }
 .band { margin-top: var(--s3); padding: var(--s2) var(--s3); background: var(--card-2); border-radius: 8px; }
+.band-norecord { display: flex; gap: var(--s2); background: var(--card); border: 1.5px dashed var(--line-strong); }
+.band-norecord svg { flex: none; width: 20px; height: 20px; margin-top: 4px; fill: none; stroke: currentColor; stroke-width: 2; stroke-linecap: round; stroke-linejoin: round; }
 .notes, .phone-steps { padding-left: 1.5em; }
 .notes li, .phone-steps li { margin-top: var(--s2); }
 .step-note { font-size: 15px; color: var(--ink-2); }
@@ -122,7 +124,7 @@ code, kbd { font-family: ui-monospace, monospace; font-size: .95em; }
 .tel > span + span { margin-left: .3em; }
 .num { margin-top: var(--s2); font-size: 22px; font-weight: 700; line-height: 1.3; letter-spacing: .02em; }
 .note { margin-top: var(--s1); font-size: 15px; color: var(--ink-2); }
-.no-phone { margin-top: var(--s2); font-weight: 700; color: var(--danger-fg); }
+.no-phone { font-weight: 700; }
 .label { margin-top: var(--s3); font-size: 15px; font-weight: 700; }
 .contact-hours { display: flex; gap: var(--s2); align-items: flex-start; }
 .contact-hours svg { flex: none; width: 20px; height: 20px; margin-top: 4px; fill: none; stroke: currentColor; stroke-width: 2; stroke-linecap: round; stroke-linejoin: round; color: var(--ink-2); }
